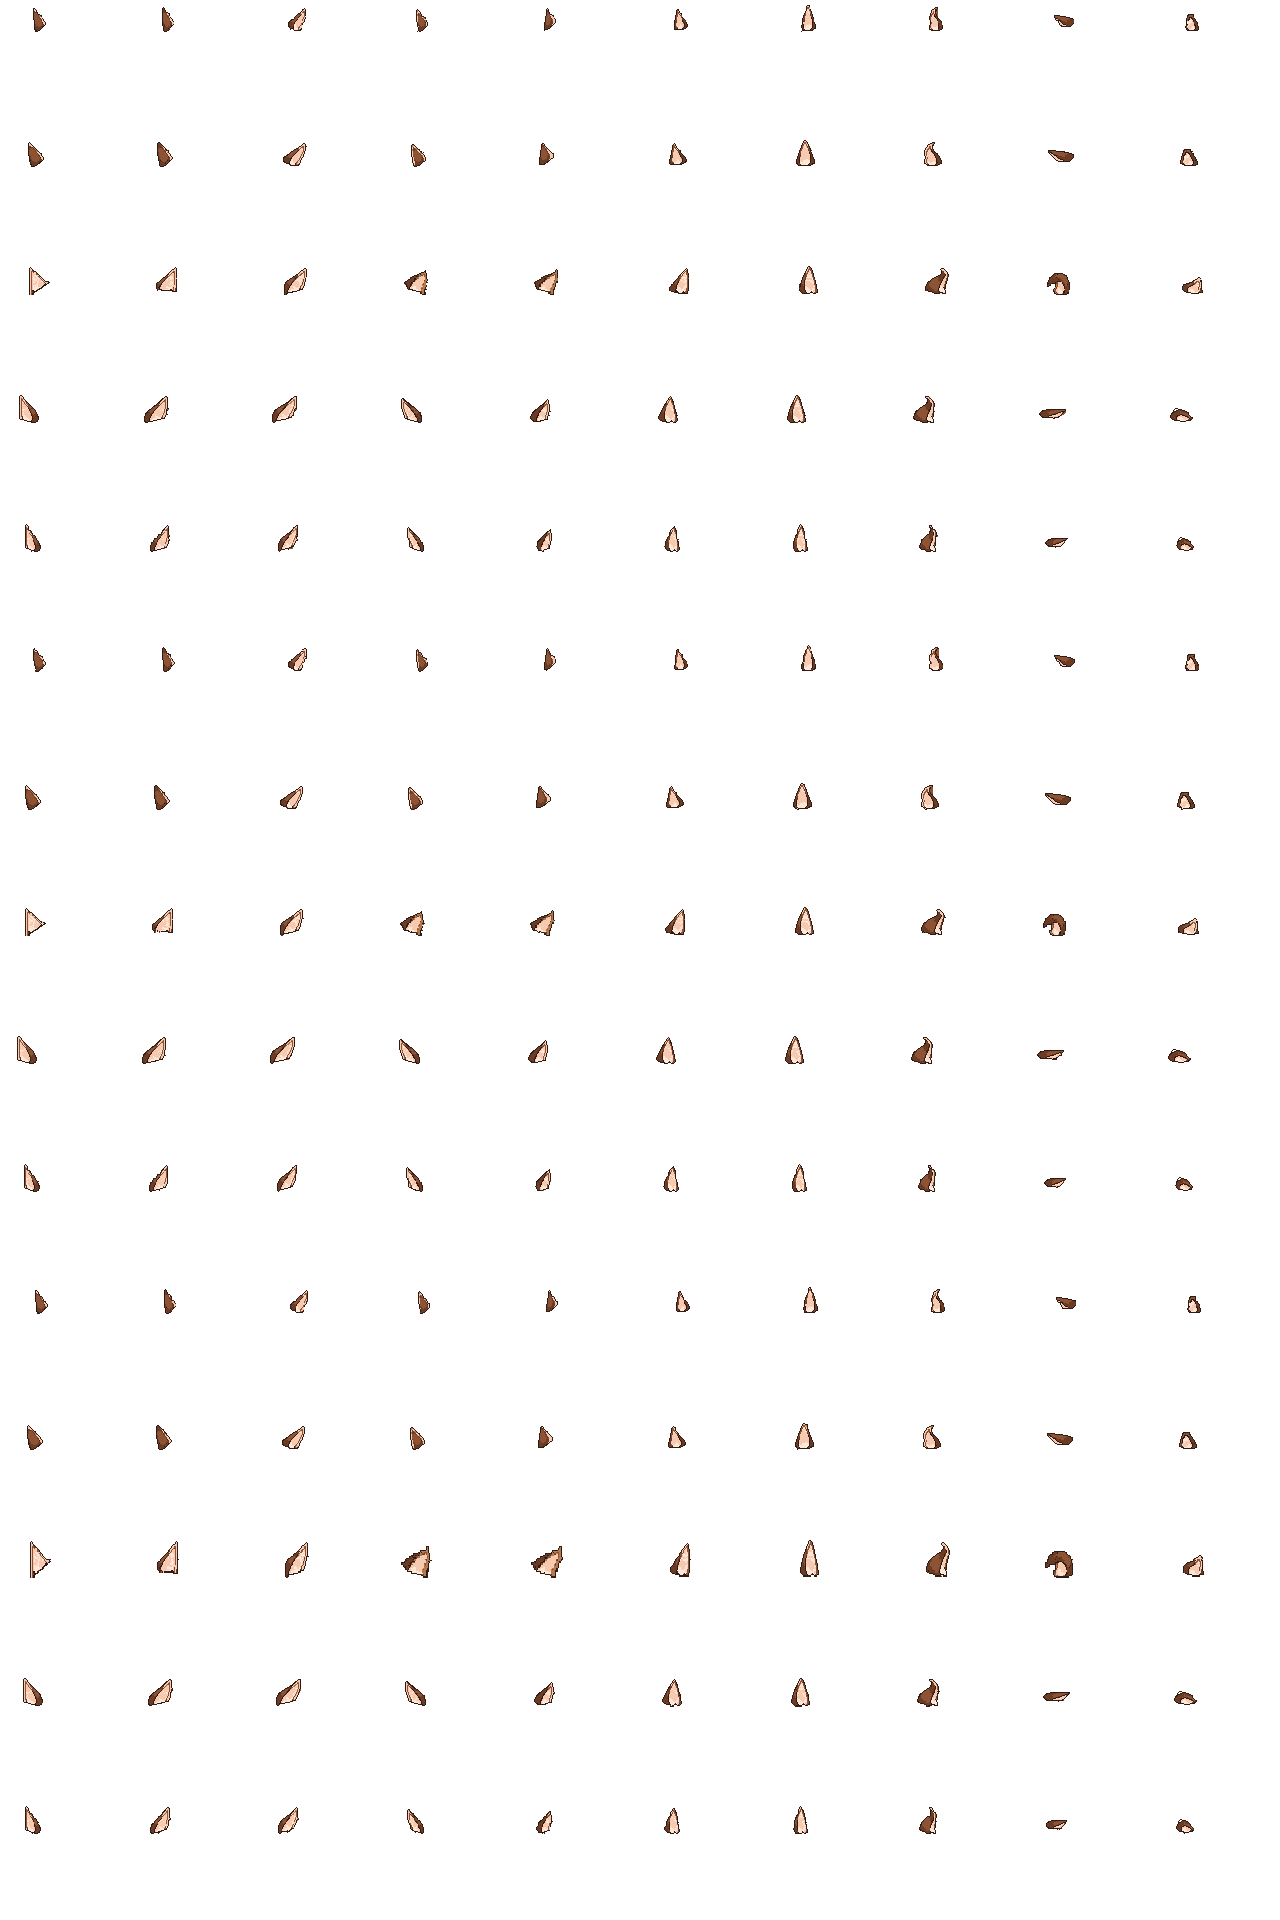
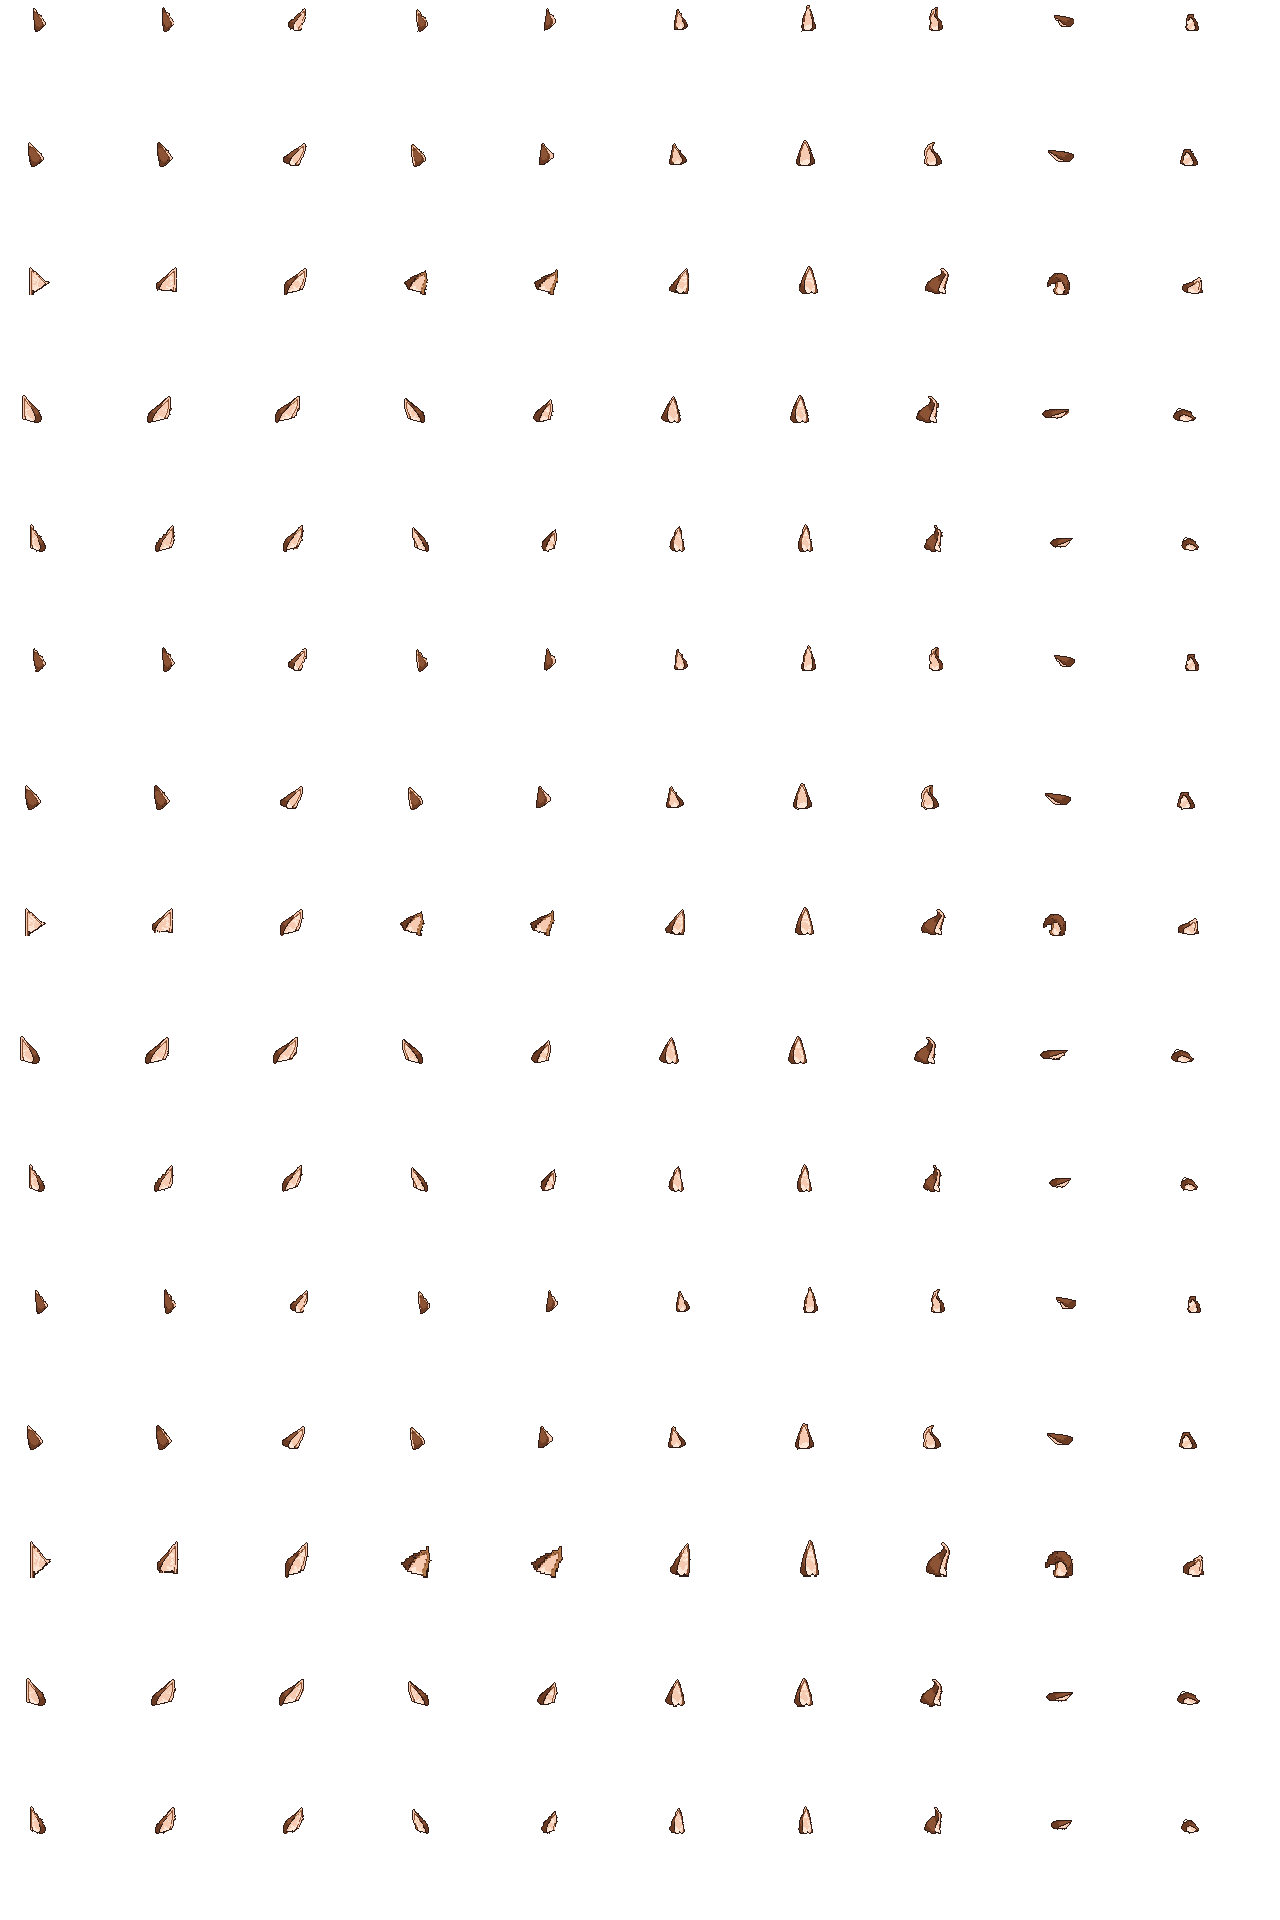
fox65k: near ear shifted toward face at yaw ±1 (3px) / ±2 (5px), cache fox65k

diff --git a/js/app.js b/js/app.js
@@ -8,9 +8,9 @@ const canvas = $('c'), ctx = canvas.getContext('2d');
 const video = $('video');
 const off = document.createElement('canvas'), octx = off.getContext('2d');      // 원본 해상도 합성
 const hc = document.createElement('canvas'), hctx = hc.getContext('2d');        // 머리 그룹 (롤 회전용)
-import { mic, startMic, micTick } from './mic.js?v=20261021-fox65j';
-import { createTail, tailStep } from './tail.js?v=20261021-fox65j';
-import { createEars, earStep } from './ears.js?v=20261021-fox65j';
+import { mic, startMic, micTick } from './mic.js?v=20261021-fox65k';
+import { createTail, tailStep } from './tail.js?v=20261021-fox65k';
+import { createEars, earStep } from './ears.js?v=20261021-fox65k';
 const earSt = createEars(); let earLast = 0;
 const CHARS = { fox65: 'assets/fox65/', fox64: 'assets/fox64/', fox63: 'assets/fox63/', fox62: 'assets/fox62/', fox61: 'assets/fox61/', fox6: 'assets/fox6/', fox53: 'assets/fox53/', fox52: 'assets/fox52/', fox51: 'assets/fox51/', fox5: 'assets/fox5/', fox4: 'assets/fox4/', fox3: 'assets/fox3/', fox2: 'assets/fox2/', test: 'assets/test/' };
 let ch = null; // {key, base, m, img, S}

diff --git a/index.html b/index.html
@@ -1,6 +1,6 @@
 <!doctype html><html lang="ko"><head><meta charset="utf-8">
 <meta name="viewport" content="width=device-width,initial-scale=1,viewport-fit=cover">
-<title>픽셀 VTuber — 퇴근여우</title><link rel="icon" href="data:,"><link rel="stylesheet" href="style.css?v=20261021-fox65j"></head><body>
+<title>픽셀 VTuber — 퇴근여우</title><link rel="icon" href="data:,"><link rel="stylesheet" href="style.css?v=20261021-fox65k"></head><body>
 <div id="stage"><canvas id="c" width="96" height="96"></canvas></div>
 <div id="hud"><span id="fps">FPS: -</span> <span id="status">대기 중</span> <span id="pose"></span><div id="meter" hidden>신남 <span class="track"><span id="meterBar"></span></span></div></div>
 <video id="video" playsinline muted autoplay></video>
@@ -26,4 +26,4 @@
  <button id="clean">클린 뷰 (OBS용)</button>
  <p class="hint">단축키: 1 자동 · 2 웃음 · 3 피곤 · 4 놀람 · 5 의기양양 · h 클린 뷰 · Esc/더블탭 해제</p>
 </div>
-<script type="module" src="js/app.js?v=20261021-fox65j"></script></body></html>
+<script type="module" src="js/app.js?v=20261021-fox65k"></script></body></html>
